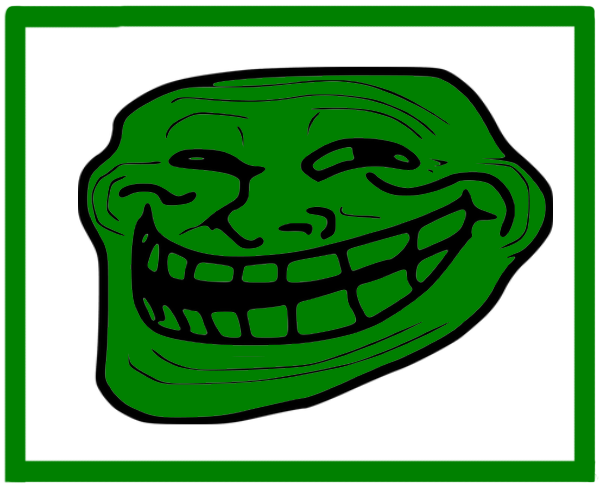
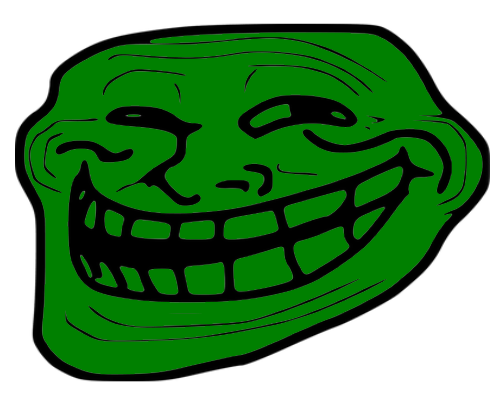
maybe made image better

diff --git a/trollware/index.html b/trollware/index.html
@@ -16,18 +16,24 @@
 										<li>seemingly "bricks" computers</li>
 										<li>data being encrypted</li>
 										<li>data being stolen (?)</li>
-										<li>lets out a nasty laugh every few or so minutes  <audio controls>
+										<li>lets out a nasty laugh every few or so minutes through the speakers of the infected computer  <audio controls>
 																							<source src="haha.mp3" type="audio/mpeg">
 																							Your browser does not support the audio element.
 																							</audio>
 										</li>
 									</ul>
 							</li>
+							<li>Methods of Attack:
+								<ul style="font-size:28px">
+									<li>email worms</li>
+									<li>pop ups about emails</li>
+								</ul>
+							</li>
 						</ul>
 						</div>
 						<div class="column">
 							<h1 align=right>The face that appears when 	&nbsp;<br>your computer gets encrypted 	&nbsp;</h2>
-							<img src="files/coolface.png"	align=right>
+							<img src="files/coolface.png" align=right style="border:20px solid green">
 						</div>
 					</div>
 			<p style="font-size: 50px;" align=center>! ! ! RESEARCH STILL IN PROGRESS ! ! !</p>
